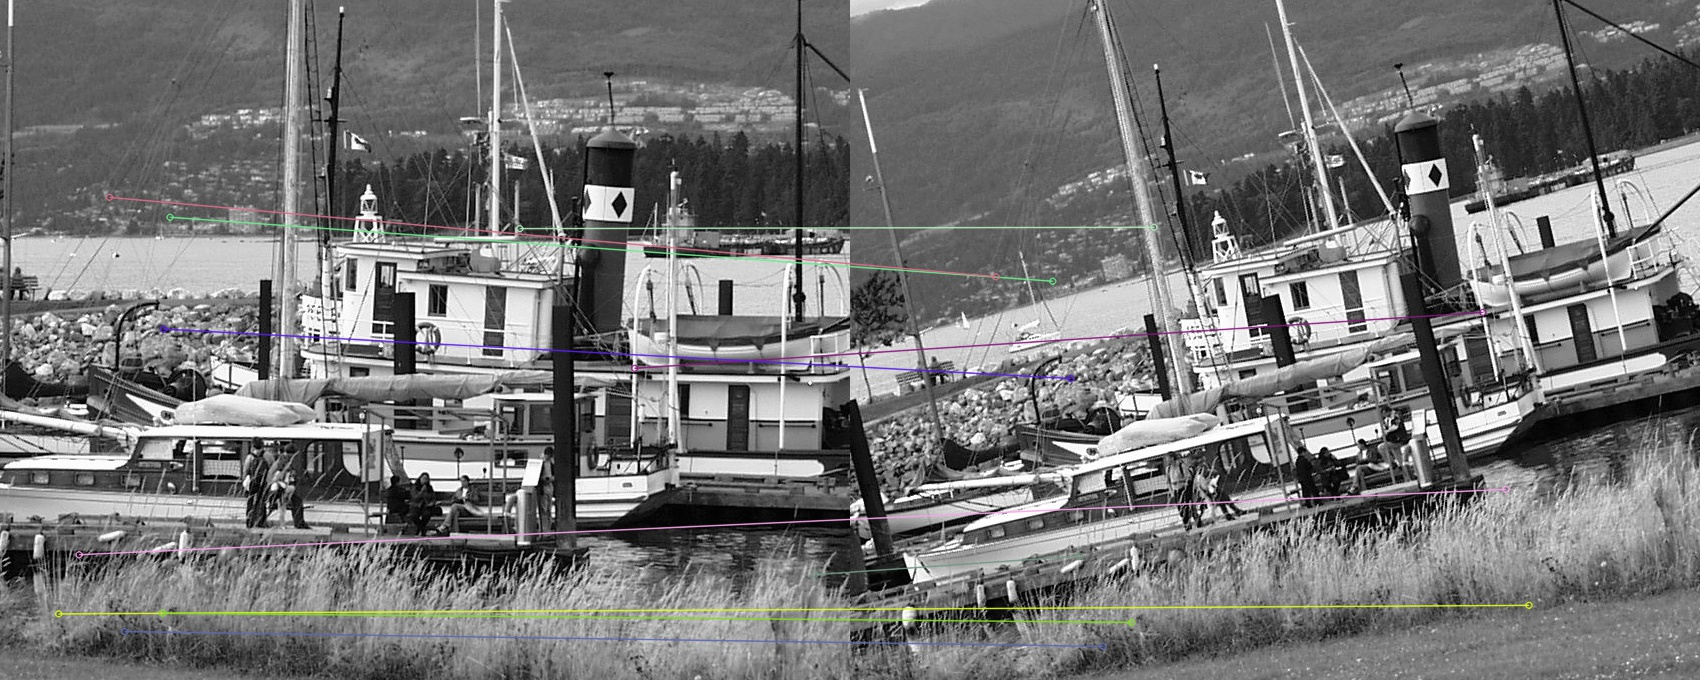
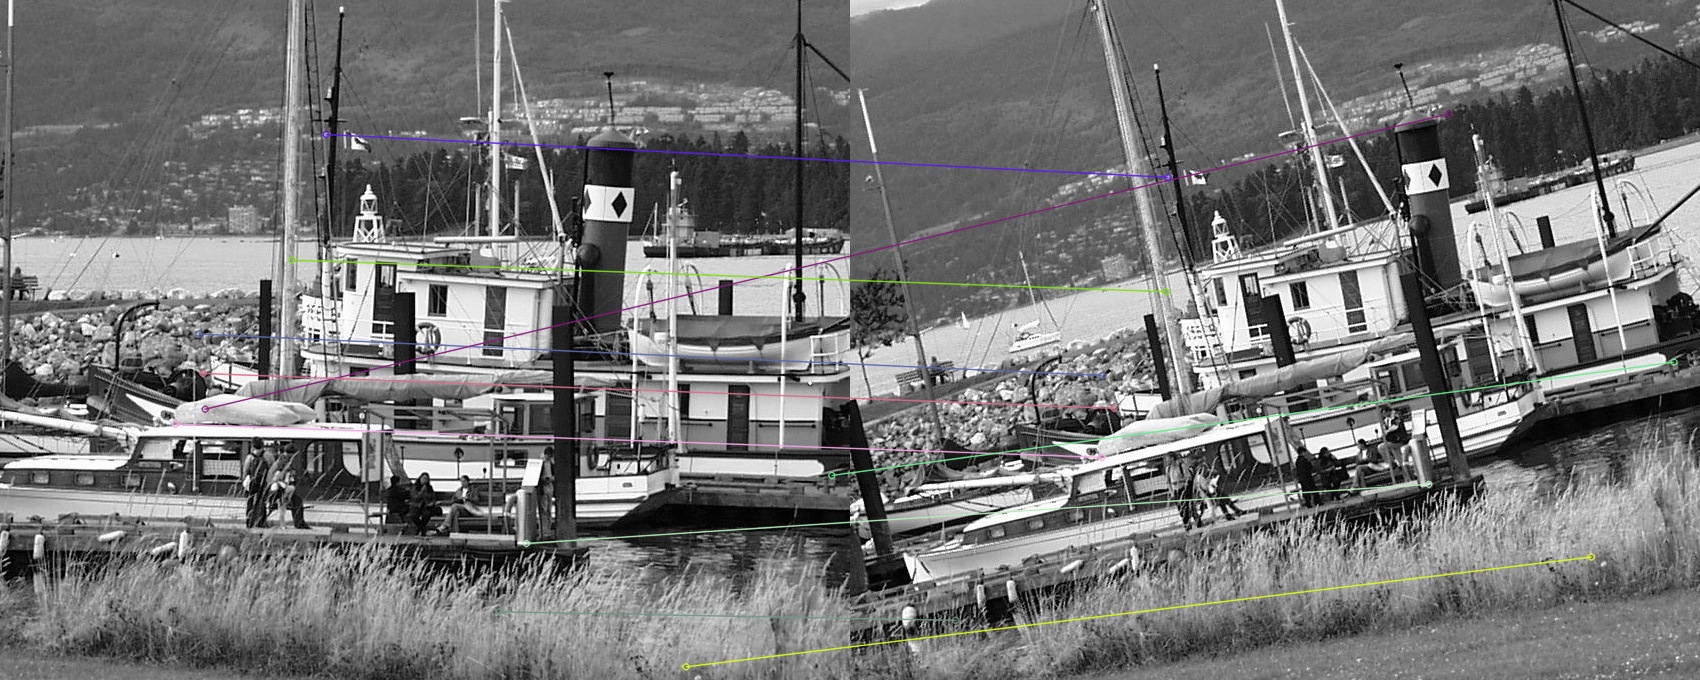
Added nearest neighbour interpolation

diff --git a/lab4/RANSAC.py b/lab4/RANSAC.py
@@ -6,6 +6,58 @@ import random
 from keypoint_matching import calculate_keypoint_matching
 
 
+
+def my_warp(original_img, transformation_params):
+    h, w = original_img.shape
+
+    #first we create a grid to perform the coordinate wise transformation on
+    initial_coordinates = np.indices((h, w)).T
+    initial_coordinates = initial_coordinates.reshape(-1,2)
+
+    M = np.array([[transformation_params[0, 0],transformation_params[0, 1]], [transformation_params[1, 0], transformation_params[1, 1]]]) # trafo matritrafo_params
+    translation = np.array([transformation_params[0, 2], transformation_params[1, 2]])
+
+    #now we apply the transformation on the original grid
+    new_coordinates = np.array(np.around((initial_coordinates @ np.linalg.inv(M).T) - translation[None,:]), dtype=np.int32)
+
+    #find minimum and maximum x and y values to be able to fit the warped image into a picture frame
+    min_x, max_x, min_y, max_y = np.inf, -np.inf, np.inf, -np.inf
+    for i in range(len(new_coordinates)):
+        if new_coordinates[i][0] < min_x:
+            min_x = new_coordinates[i][0]
+        if new_coordinates[i][0] > max_x:
+            max_x = new_coordinates[i][0]
+        if new_coordinates[i][1] < min_y:
+            min_y = new_coordinates[i][1]
+        if new_coordinates[i][1] > max_y:
+            max_y = new_coordinates[i][1]
+
+    #offset the coords to have min_x value of 0 and min_y value of 0
+    for j in range(len(new_coordinates)):
+        new_coordinates[j][0] = new_coordinates[j][0] - min_x
+        new_coordinates[j][1] = new_coordinates[j][1] - min_y
+
+    new_im = np.ones((max_x-min_x+1,max_y-min_y+1))*-1
+    new_im[new_coordinates[:,0], new_coordinates[:,1]] = original_img[initial_coordinates[:,0], initial_coordinates[:,1]]
+    print(new_im.min())
+    new_h, new_w = new_im.shape
+    for i in range(new_h):
+        for j in range(new_w):
+            if new_im[i,j]<0:
+                end = j+8
+                if end > new_w-1:
+                    end= new_w-1
+                num_of_missing = sum(new_im[i,j:end]<0)
+                if j>0 and num_of_missing<8:
+                    new_im[i,j] = new_im[i,j-1] 
+                # else:
+                #     new_im[i,j] = new_im[i,j+1] 
+    print(new_im.shape)
+
+    return new_im
+
+
+
 def AffineTransformation(stackofpoints):
     A = []
     b = []
@@ -23,8 +75,8 @@ def AffineTransformation(stackofpoints):
 
 
 def RANSAC(corr, thresh):
-    N = 50
-    P = 6
+    N = 500
+    P = 10
     max_inliers = -1
     #Repeat N times (selected 1000)
     for i in range(N):
@@ -41,30 +93,25 @@ def RANSAC(corr, thresh):
 
         im1_points = []
         im2_points = stackofpoints[:,2:4].T
-        print(im2_points.shape)
         
         for i in range(len(stackofpoints)):
             im1_points.append([stackofpoints[i, 0], stackofpoints[i, 1], 1])
 
         # transform first image points
         transformed_points = (affine @ np.array(im1_points).T)[:2]
-        print(transformed_points.shape)
         
-        print(np.square(transformed_points - im2_points))
-        print(np.sum(np.square(transformed_points - im2_points)))
-        print('\n')
+       
         distance = np.sqrt(np.sum(np.square(transformed_points - im2_points), axis=0))
-        inliers = np.shape(distance[distance<=200])[1]
+        inliers = np.shape(distance[distance<=thresh])[1]
 
         if (inliers > max_inliers):
             max_inliers = inliers
             best_points = np.copy(stackofpoints)
             best_solution = np.copy(affine)
 
-            print(best_points)
-            print(best_solution)
+          
     
-    return 5, 6
+    return best_solution, best_points, max_inliers
 
 
 if __name__ == '__main__':
@@ -79,7 +126,7 @@ if __name__ == '__main__':
     img2_gray = cv.cvtColor(img2,cv.COLOR_BGR2GRAY)
     
     #set the estimation threshold
-    est_thres = 0.6
+    est_thres = 10
     
     #calculate matching keypoints
     kp1, kp2, des1, des2, matches = calculate_keypoint_matching(img1_gray, img2_gray)
@@ -92,5 +139,41 @@ if __name__ == '__main__':
     correspondence = np.matrix(templist)
     
     #call RANSAC function
-    P, Inliers = RANSAC(correspondence, est_thres)
+    P, points, inliers = RANSAC(correspondence, est_thres)
+    # transformed_points = (P @ np.array(im1_points).T)[:2]
+    h, w = img1_gray.shape
+    image1_cvwarp = cv.warpAffine(img1_gray,P[0:2,:],(w,h))
+    image1_mywarp = my_warp(img1_gray, P)
     
+    h, w = img2_gray.shape
+    new_P = np.linalg.inv(P)
+    image2_cvwarp = cv.warpAffine(img2_gray, new_P[0:2,:], (w,h))
+    image2_mywarp = my_warp(img2_gray, new_P)
+
+    fig=plt.figure(figsize=(20,30))
+    plt.subplot(2, 3, 1)
+    plt.imshow(img1,vmin=0,vmax=255)
+    plt.axis('off')
+    plt.title('Original image 1',)
+    plt.subplot(2, 3, 2)
+    plt.imshow(image1_cvwarp,vmin=0,vmax=255, cmap='gray')
+    plt.axis('off')
+    plt.title('Transformation of image 1 to image 2 using openCV warp function')
+    plt.subplot(2, 3, 3)
+    plt.imshow(image1_mywarp,vmin=0,vmax=255, cmap='gray')
+    plt.axis('off')
+    plt.title('Transformation of image 1 to image 2 using our warp function')
+    plt.subplot(2, 3, 4)
+    plt.imshow(img2,vmin=0,vmax=255)
+    plt.axis('off')
+    plt.title('Original image 2')
+    plt.subplot(2, 3, 5)
+    plt.imshow(image2_cvwarp,vmin=0,vmax=255, cmap='gray')
+    plt.axis('off')
+    plt.title('transformation of image 2 to image 1 using openCV warp function')
+    plt.subplot(2, 3, 6)
+    plt.imshow(image2_mywarp,vmin=0,vmax=255, cmap='gray')
+    plt.axis('off')
+    plt.title('Transformation of image 2 to image 1 using our warp function')
+    
+    plt.show()
